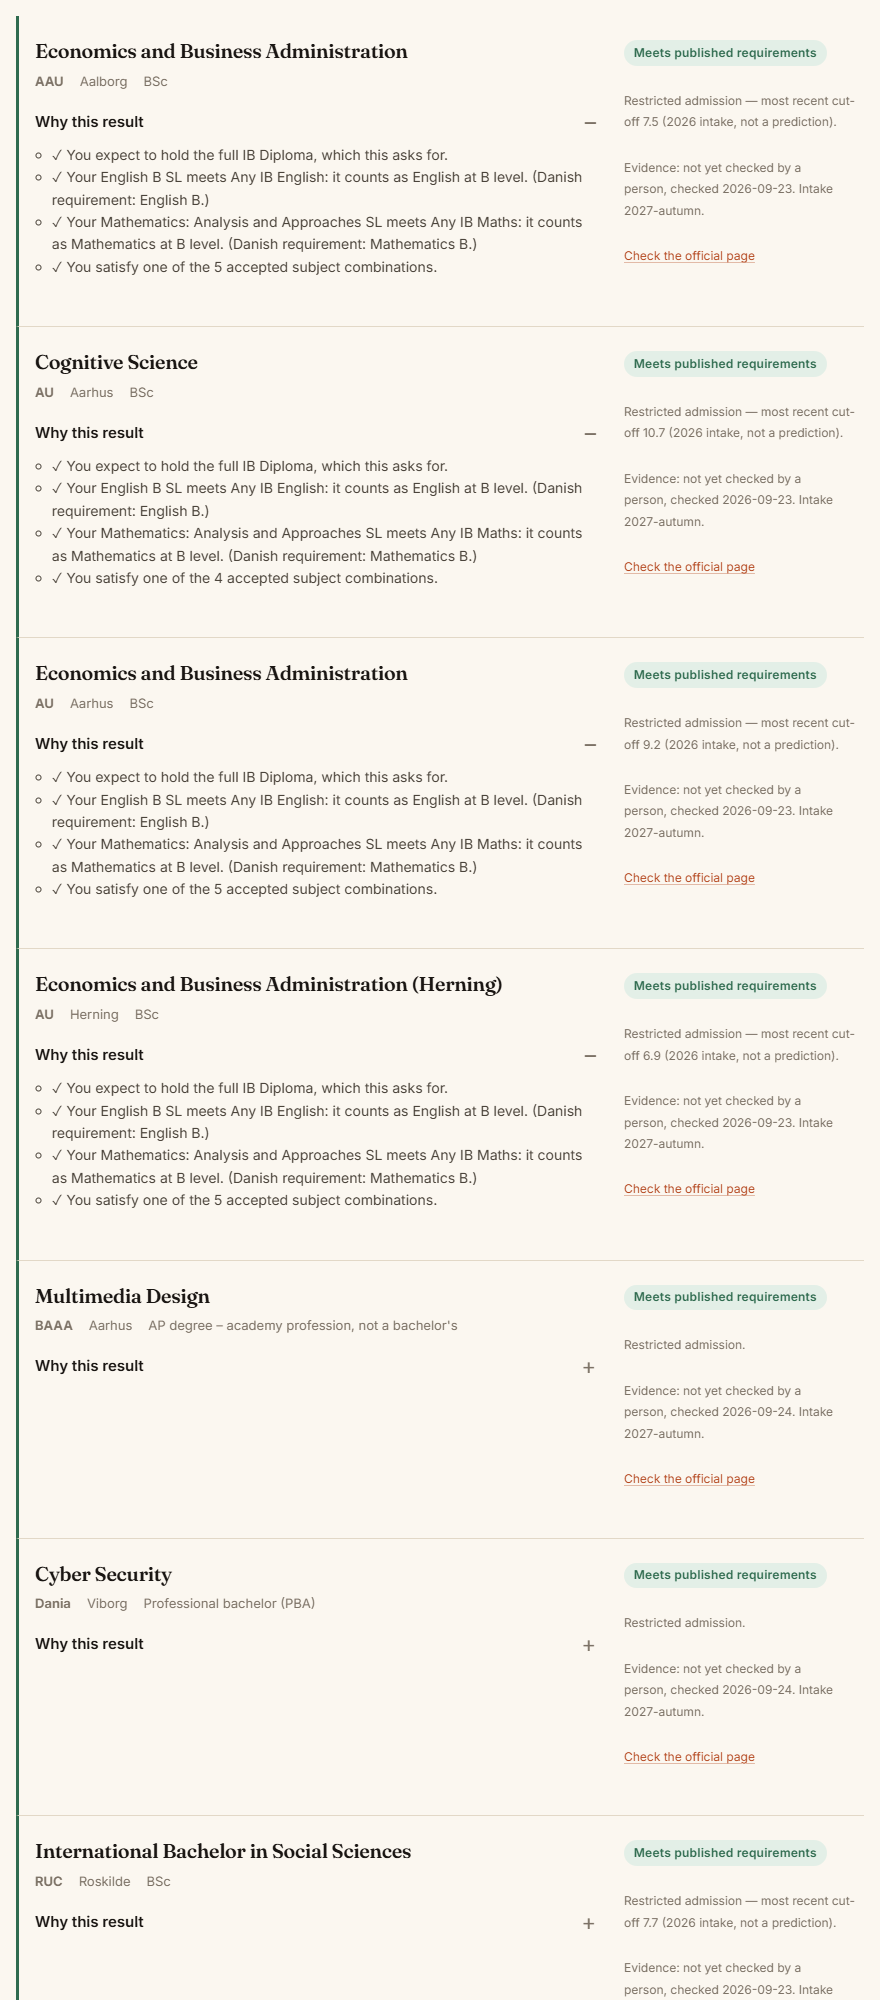
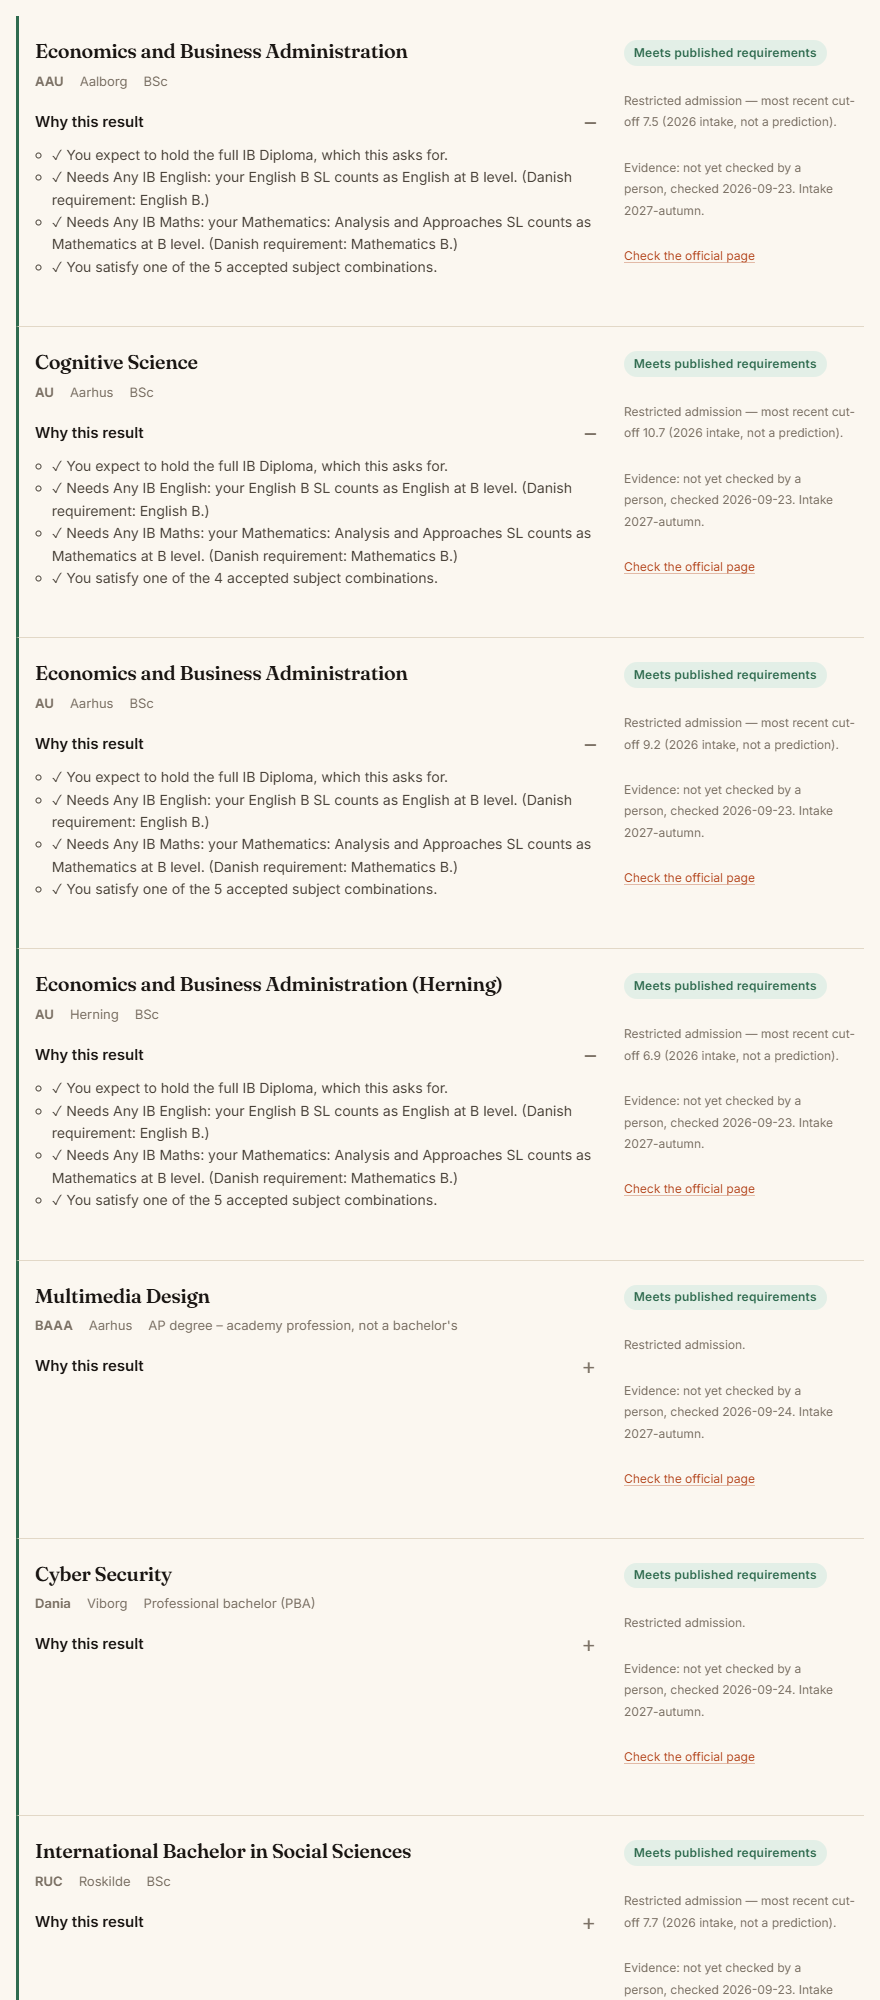
Audience fixes round 1; simpler IB wording on requirement cards
Audience (critic round 1, 6/10): Nordic-only steps are conditional with
the EU/EEA step beside them (Norway police, Finland Migri, Iceland
registration); Korea's 2027 GKS rounds closed by the graduation rule;
SU wording fixed once in the shared record; Nordic klip settled on su.dk;
Hungary; labelled Ukrainian special-act tuition line; guard tightened.

Requirements: 'Any IB English', 'Any IB Maths', 'Maths HL (AA or AI)'
collapsed from data; options with no IB route summarised on cards;
Danish grades written as the scale writes them ('02').

Also repairs a context note committed mid-write in abf9656.

diff --git a/docs/research/audience/PLAN.md b/docs/research/audience/PLAN.md
@@ -566,3 +566,93 @@ not touched here.
 - "a Swedish or Danish student taking time out" (SE);
 - AU's own words, quoted: "Danish applicants";
 - BAAA's quoted fee source.
+
+## Round 1 fixes (critique-round-1.md, scored 6/10)
+
+Verification is in `verification.md` §8 (klip) and §9 (Ukraine). The data
+edits are in `apply-round1.mjs` (re-runnable).
+
+1. **Nordic-only admin steps are now conditional, each with the EU/EEA step
+   beside it.**
+   - **Norway** (steps and residency): "If you are a Nordic citizen, you do not
+     register with the police. Other EU/EEA citizens staying more than three
+     months register with the police within three months of arriving." Source:
+     UiO, already cited.
+   - **Finland** (why-it-suits, steps, residency): "If you are a Nordic
+     citizen…", plus "Other EU/EEA citizens … Migri". Source: Migri, already
+     cited.
+   - **Iceland** (residency): EU/EEA and Swiss students register with Registers
+     Iceland within three months. Nordic citizens' track is simpler. Source:
+     skra.is student page, added.
+   - **New guard rule, `group-identity`.** It is built from
+     `data/applicant-groups.json`: every group `within` the reader group that
+     declares an `adjective`, currently `nordic` → "Nordic". It refuses "as a
+     {group} citizen/national/student" and "you are a {group} citizen" as a
+     statement. No label excuses it, and only "if you are…" passes. It names no
+     group in code; the read-back check covers the group names too.
+2. **GKS 2027 University Track closed.**
+   - `kr-gks-university-2027` has `readerAccess: closed` with the
+     graduation-date reason, and its label no longer says "open to every
+     nationality".
+   - The Korea page leads with "No May 2027 IB candidate can use the 2027
+     round, on either track … Plan for 2028", then the 2028 nationality test
+     (`kr.json` ×4, `destinations/kr.json` ×2).
+   - `test-calendar.mjs` pins both 2027 tracks as closed.
+3. **The shared SU record is reworded.**
+   - `label` (for Denmark) now says "five years living in Denmark", not "here",
+     with no nested parenthesis.
+   - The new `abroad.label` (schema added) is used on every other
+     Destination's page: "…equal status under EU rules) and meet the
+     ties-to-Denmark requirement". `fundingLine()` chooses it by comparing
+     the page's destination with the scheme's.
+   - `abroad.ties` is now a full sentence. `rate.basis` reads "a student … their
+     parents".
+   - The duplicated "ties" clause was removed from 19 country notes.
+   - The seven legalistic "(…and in both cases the ties-to-Denmark
+     requirement)" parentheticals are cut to "If you can claim Danish SU, …";
+     the page's funding line carries the conditions. "If you are not Danish,
+     check…" became "If you cannot claim it, check…".
+4. **Klip question settled on su.dk** ("Hvad kan du få"). Nordic study is paid
+   as if in Denmark and does use SU klip, within the overall 70-klip frame for
+   higher education abroad.
+   - The FAQ's "does not consume your klippekort" is removed.
+   - Norway's "same SU-klip as a Danish degree" now reads "uses SU-klip, within
+     the 70-klip frame…".
+   - The record states that the reform's effect on the frame is not yet on
+     su.dk.
+   - The FAQ answer now leads with the answer.
+5. **Hungary.**
+   - Stipendium Hungaricum is "closed to EU citizens … (Ukraine, among other
+     non-EU countries, is)".
+   - The Diaspora Scholarship is "closed to anyone living in the EU".
+   - The watch-out ends "Unless it is, plan to be self-funded".
+   - The destination summary is conditional.
+   - The tagline is now "Medicine in English — usually paid for yourself".
+6. **Displaced persons from Ukraine.** One labelled line each on the `/denmark/`
+   money topic and the `/denmark/money/` tuition paragraph: no tuition and no
+   application fee under Act no. 324 of 16 March 2022. Verified on AU's
+   bachelor fee page and the Royal Danish Academy's page; the AU source was
+   added. SU for this group was not verified, so the line says nothing about
+   it. The money page lede now says "EU, EEA and Swiss citizens".
+7. **Guard hygiene.**
+   - The `not {A}` label now needs "citizen(ship)/national(ity)/passport", or
+     "if/unless you are not {A}"; "not Danish-taught" no longer excuses.
+   - `home` cannot be excused by a label, and also catches "your home country,
+     {N}".
+   - `identity` catches "you are {A}" as a statement.
+   - There are new fixtures for each loophole the critic listed.
+   - The `publication-floor.mjs` allowlist reason now says it is rendered on
+     `/trust/`.
+   - One new allowlist entry covers Registers Iceland's own page title.
+8. **Housekeeping.**
+   - The MEXT `readerAccess.reason` ends at "…each decides what it offers.";
+     the Copenhagen fact stays once, in the steps and watch-outs.
+   - Reykjavik University's fee is recomputed: ISK 656,000 ≈ €4,750.
+   - README count left alone, as instructed.
+   - Prose:
+     - the Norway context note ("Doing so" / "will not") was rewritten;
+     - the Finland "If you are not Danish" line became "If you cannot claim SU".
+
+**Gate** (PowerShell, `SITE_BASE=/IB-Post-Secondary-Opportunities`): **all 30
+checks pass**, including `audience`, `calendar`, `validate`, `release` and
+`image-records` (now green after the photo agent's work).

diff --git a/docs/research/qa/conversion/NOTES.md b/docs/research/qa/conversion/NOTES.md
@@ -86,3 +86,31 @@ Open for a critic:
   (Global Politics is decided case by case); the card says the short form, the
   programme page and the conversion table give the reason.
 - Cards for programmes with long one-of lists (AU Economics) run to ~6 lines.
+
+## Round 0b — shorter cards (coordinator's pass)
+
+12. **Collapse by area, from the data.** `data/ib-subjects.json` gains an
+    optional `area` ("English" on English A Literature, English A Lang & Lit and
+    English B; "Maths" on AA and AI; "Danish" on the three Danishes). When a rule
+    accepts *every* catalogue subject in an area at the same levels,
+    `ibTermsPhrase` names the area: both levels → "Any IB English" / "Any IB
+    Maths"; one level → "Maths HL (AA or AI)". No subject name is in the code —
+    the collapse is "accepted set == catalogue members of that area". Levels
+    are now written "History (SL or HL)", "Biology HL". Caveat: "Any IB
+    English" means any English in our catalogue — it has no English ab initio.
+13. **Cards list only options with an IB route**; the rest become a muted
+    "+ 3 options with no IB route" (named, with the reasons, on the programme
+    page). A one-of with a single IB option drops the "one of:" label only when
+    nothing else is hidden.
+14. **Danish grades written the Danish way.** The Recognition Scheme's
+    `gradeScale` gains optional `grades: [{value, label}]` (schema updated), so
+    02 prints as "02" and 00 as "00" — card small line, programme page,
+    planner. A value not on the scale (CBS's "6") prints as the number.
+15. **Planner "met" lines lead with the IB requirement**: "Needs Any IB English:
+    your English B SL counts as English at B level. (Danish requirement:
+    English B.)" — "Your English B SL meets Any IB English" read badly.
+
+Result: a typical card is "Needs Any IB English · Maths HL (AA or AI)" (one
+line); the longest Aarhus cards (Economics, 2 IB options + 3 hidden) take 3–4
+lines at desktop width, Cognitive Science 2 lines plus the muted note.
+Gate: all 30 checks pass. Screenshots in `round-0b/`.
